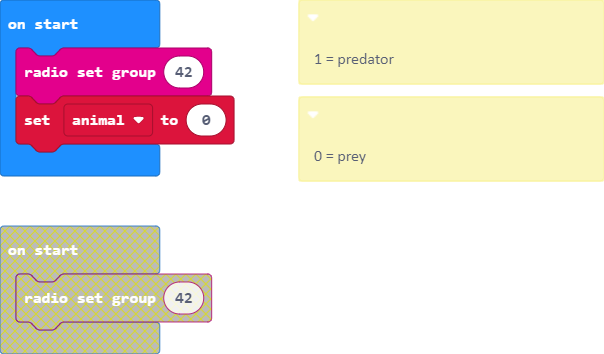
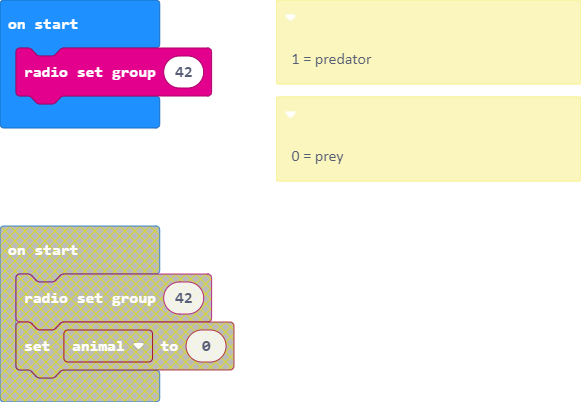
Update main.blocks, main.ts, main.py

Changed region(s): [[0.0, 0.5593, 0.4028, 1.0], [0.0, 0.0, 0.4028, 0.4972], [0.4647, 0.0, 1.0, 0.5282]]

diff --git a/main.ts b/main.ts
@@ -1,20 +1,25 @@
+let animal = 0
+//  0 = prey, 1 = predator
+let nearby_animal = 0
+radio.setGroup(42)
 radio.onReceivedNumber(function on_received_number(receivedNumber: number) {
     
     nearby_animal = receivedNumber
 })
-//  0 = prey
-//  1 = predator
-let nearby_animal = 0
-radio.setGroup(42)
-let animal = 0
 basic.forever(function on_forever() {
+    
+    
     if (animal == 1) {
+        //  predator
         radio.sendNumber(animal)
-        basic.pause(500)
+        basic.pause(100)
     } else if (animal == 0) {
+        //  prey
         radio.sendNumber(animal)
-        basic.pause(500)
+        basic.pause(100)
         if (nearby_animal == 1) {
+            
+        } else if (nearby_animal == 0) {
             
         }
         

diff --git a/main.py b/main.py
@@ -1,21 +1,23 @@
+animal = 0 # 0 = prey, 1 = predator
+nearby_animal = 0
+radio.set_group(42)
+
 def on_received_number(receivedNumber):
     global nearby_animal
     nearby_animal = receivedNumber
 radio.on_received_number(on_received_number)
 
-# 0 = prey
-# 1 = predator
-nearby_animal = 0
-radio.set_group(42)
-animal = 0
-
 def on_forever():
-    if animal == 1:
+    global animal
+    global nearby_animal
+    if animal == 1: # predator
         radio.send_number(animal)
-        basic.pause(500)
-    elif animal == 0:
+        basic.pause(100)
+    elif animal == 0 : # prey
         radio.send_number(animal)
-        basic.pause(500)
+        basic.pause(100)
         if nearby_animal == 1:
+            pass
+        elif nearby_animal == 0:
             pass
 basic.forever(on_forever)
